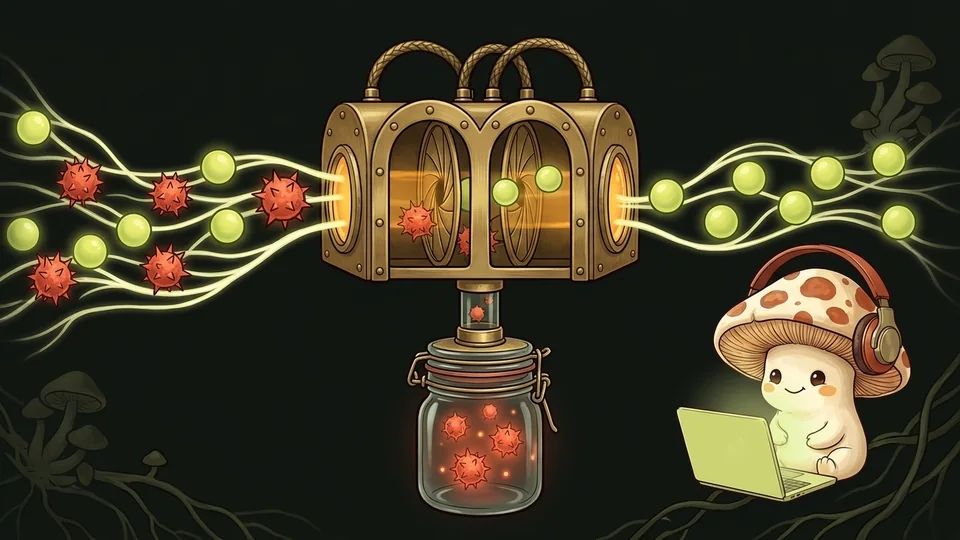
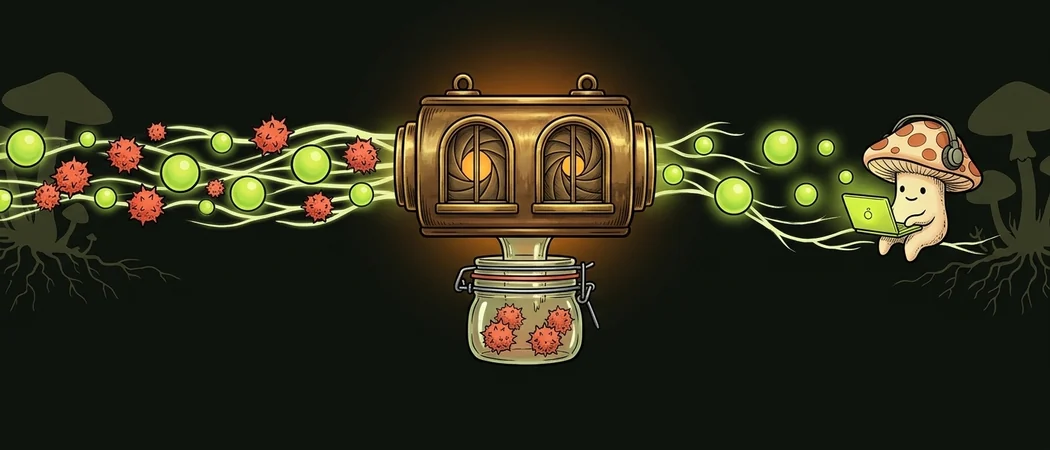
site(ux): fix hero responsive reflow, lock 21:9 full-bleed security cards & remove temp preview toggle

diff --git a/site/index.html b/site/index.html
@@ -18,7 +18,7 @@
   <meta name="twitter:title" content="Hyphae (hyp) — One wire under every agent" />
   <meta name="twitter:description" content="A standardized real-time event and messaging bus for coding agents. Unify CI/GitHub events, alerts, cron triggers, Passkey secrets, and cross-machine team messages over one encrypted wire with per-agent exposure control." />
   <meta name="twitter:image" content="https://hyphae.to/assets/social-card.jpg" />
-  <link rel="stylesheet" href="./styles.css?v=28" />
+  <link rel="stylesheet" href="./styles.css?v=30" />
 </head>
 <body>
   <header id="siteHeader" class="header-dark">
@@ -1050,23 +1050,19 @@ hyp deploy init tailscale</pre>
           </div>
         </div>
 
-        <div class="sec-grid">
+        <div class="sec-grid" id="secGrid">
           <!-- 1. End-to-End Encrypted Between Nodes -->
           <article class="sec-card tone-olive">
             <div class="sec-card-media">
-              <div class="sec-stage-frame">
-                <img src="./assets/sec-e2ee.webp?v=1" alt="Two brass Hyphae nodes connected by a glowing sealed conduit passing straight through a locked blind relay tower" decoding="async" />
-                <div class="sec-img-fade" aria-hidden="true"></div>
-                <svg class="sec-anim-overlay" viewBox="0 0 320 180" fill="none" aria-hidden="true">
-                  <circle class="sec-orb olive" cx="0" cy="0" r="3.4">
-                    <animateMotion dur="2.8s" repeatCount="indefinite" path="M 92 90 L 128 90" />
-                  </circle>
-                  <circle class="sec-orb olive" cx="0" cy="0" r="3.4">
-                    <animateMotion dur="2.8s" begin="1.35s" repeatCount="indefinite" path="M 192 90 L 230 90" />
-                  </circle>
-                  <rect class="sec-lock-glow" x="147" y="75" width="26" height="32" rx="6" />
-                </svg>
-              </div>
+              <img src="./assets/sec-e2ee.webp?v=2" alt="Two brass Hyphae nodes connected by a glowing sealed conduit passing straight through a locked blind relay chamber" decoding="async" />
+              <svg class="sec-anim-overlay" viewBox="0 0 350 150" fill="none" aria-hidden="true">
+                <circle class="sec-orb olive" cx="0" cy="0" r="3.2">
+                  <animateMotion dur="2.8s" repeatCount="indefinite" path="M 102 75 L 142 75" />
+                </circle>
+                <circle class="sec-orb olive" cx="0" cy="0" r="3.2">
+                  <animateMotion dur="2.8s" begin="1.35s" repeatCount="indefinite" path="M 208 75 L 248 75" />
+                </circle>
+              </svg>
             </div>
 
             <div class="sec-card-body">
@@ -1094,19 +1090,15 @@ hyp deploy init tailscale</pre>
           <!-- 2. Zero-Context Secrets -->
           <article class="sec-card tone-moss">
             <div class="sec-card-media">
-              <div class="sec-stage-frame">
-                <img src="./assets/sec-passkey.webp?v=1" alt="Smartphone Face ID key beam going straight into a brass Keychain vault and command runner while the mushroom coding agent works separately behind glass" decoding="async" />
-                <div class="sec-img-fade" aria-hidden="true"></div>
-                <svg class="sec-anim-overlay" viewBox="0 0 320 180" fill="none" aria-hidden="true">
-                  <circle class="sec-bio-pulse" cx="50" cy="90" r="11" />
-                  <circle class="sec-orb moss" cx="0" cy="0" r="3.3">
-                    <animateMotion dur="2.5s" repeatCount="indefinite" path="M 62 87 L 138 86" />
-                  </circle>
-                  <circle class="sec-orb moss" cx="0" cy="0" r="3.1">
-                    <animateMotion dur="2.5s" begin="1.15s" repeatCount="indefinite" path="M 151 128 C 151 148, 158 153, 178 153 L 246 153" />
-                  </circle>
-                </svg>
-              </div>
+              <img src="./assets/sec-passkey.webp?v=2" alt="Smartphone Face ID key beam going straight into a brass Keychain vault and command runner while the mushroom coding agent works separately behind glass" decoding="async" />
+              <svg class="sec-anim-overlay" viewBox="0 0 350 150" fill="none" aria-hidden="true">
+                <circle class="sec-orb moss" cx="0" cy="0" r="3">
+                  <animateMotion dur="2.5s" repeatCount="indefinite" path="M 74 75 L 146 75" />
+                </circle>
+                <circle class="sec-orb moss" cx="0" cy="0" r="2.8">
+                  <animateMotion dur="2.5s" begin="1.15s" repeatCount="indefinite" path="M 176 75 L 236 75" />
+                </circle>
+              </svg>
             </div>
 
             <div class="sec-card-body">
@@ -1134,17 +1126,13 @@ hyp deploy init tailscale</pre>
           <!-- 3. Passkey-Signed Messages -->
           <article class="sec-card tone-amber">
             <div class="sec-card-media">
-              <div class="sec-stage-frame">
-                <img src="./assets/sec-sign.webp?v=1" alt="Smartphone stamping a glowing golden cryptographic seal onto a message traveling safely across an untrusted channel to two verifying mushroom agents" decoding="async" />
-                <div class="sec-img-fade" aria-hidden="true"></div>
-                <svg class="sec-anim-overlay" viewBox="0 0 320 180" fill="none" aria-hidden="true">
-                  <circle class="sec-orb amber" cx="0" cy="0" r="3.4">
-                    <animateMotion dur="3.1s" repeatCount="indefinite" path="M 64 90 L 160 90 L 208 90" />
-                  </circle>
-                  <circle class="sec-seal-pulse" cx="160" cy="90" r="10" />
-                  <circle class="sec-seal-pulse delay" cx="256" cy="113" r="8" />
-                </svg>
-              </div>
+              <img src="./assets/sec-sign.webp?v=2" alt="Smartphone stamping a glowing golden cryptographic seal onto a message traveling safely across an untrusted channel to two verifying mushroom agents" decoding="async" />
+              <svg class="sec-anim-overlay" viewBox="0 0 350 150" fill="none" aria-hidden="true">
+                <circle class="sec-orb amber" cx="0" cy="0" r="3.1">
+                  <animateMotion dur="3.1s" repeatCount="indefinite" path="M 80 75 L 175 75 L 238 75" />
+                </circle>
+                <circle class="sec-seal-pulse" cx="175" cy="75" r="9" />
+              </svg>
             </div>
 
             <div class="sec-card-body">
@@ -1172,24 +1160,15 @@ hyp deploy init tailscale</pre>
           <!-- 4. Two-Stage Inbound Gate -->
           <article class="sec-card tone-coral">
             <div class="sec-card-media">
-              <div class="sec-stage-frame">
-                <img src="./assets/sec-gate.webp?v=1" alt="Twin-chamber brass optical gatehouse diverting thorny red spores into a sealed glass quarantine jar while clean glowing green orbs flow to the mushroom agent" decoding="async" />
-                <div class="sec-img-fade" aria-hidden="true"></div>
-                <svg class="sec-anim-overlay" viewBox="0 0 320 180" fill="none" aria-hidden="true">
-                  <circle class="sec-orb olive" cx="0" cy="0" r="3.3">
-                    <animateMotion dur="3.2s" repeatCount="indefinite" path="M 8 56 C 48 60, 82 64, 114 65 L 206 65 C 242 64, 274 56, 304 54" />
-                  </circle>
-                  <circle class="sec-orb olive" cx="0" cy="0" r="2.9">
-                    <animateMotion dur="3.2s" begin="1.6s" repeatCount="indefinite" path="M 10 80 C 52 78, 84 68, 114 66 L 206 66 C 240 68, 272 72, 304 72" />
-                  </circle>
-                  <circle class="sec-orb coral" cx="0" cy="0" r="3.6">
-                    <animateMotion dur="2.9s" repeatCount="indefinite" path="M 14 70 C 54 68, 86 65, 114 65 L 146 65 C 156 66, 160 76, 160 96 L 160 144" />
-                  </circle>
-                  <circle class="sec-orb coral" cx="0" cy="0" r="3.1">
-                    <animateMotion dur="2.9s" begin="1.45s" repeatCount="indefinite" path="M 16 86 C 58 84, 88 70, 114 66 L 144 66 C 155 68, 160 78, 160 98 L 160 142" />
-                  </circle>
-                </svg>
-              </div>
+              <img src="./assets/sec-gate.webp?v=2" alt="Twin-chamber brass optical gatehouse diverting thorny red spores into a sealed glass quarantine jar while clean glowing green orbs flow to the mushroom agent" decoding="async" />
+              <svg class="sec-anim-overlay" viewBox="0 0 350 150" fill="none" aria-hidden="true">
+                <circle class="sec-orb olive" cx="0" cy="0" r="3">
+                  <animateMotion dur="3.2s" repeatCount="indefinite" path="M 10 56 C 58 56, 94 54, 134 54 L 218 54 C 254 54, 286 56, 326 56" />
+                </circle>
+                <circle class="sec-orb coral" cx="0" cy="0" r="3.2">
+                  <animateMotion dur="2.9s" repeatCount="indefinite" path="M 14 66 C 62 66, 98 58, 136 58 L 164 58 C 172 62, 175 78, 175 118" />
+                </circle>
+              </svg>
             </div>
 
             <div class="sec-card-body">
@@ -1760,6 +1739,6 @@ curl -fsSL https://hyphae.to/install.sh | sh</pre>
     <p class="cmp-pop-body" id="cmpPopBody"></p>
   </div>
 
-  <script type="module" src="./app.js?v=25"></script>
+  <script type="module" src="./app.js?v=27"></script>
 </body>
 </html>

diff --git a/site/styles.css b/site/styles.css
@@ -4871,7 +4871,8 @@ footer { border-top: 1px solid var(--border); padding: 34px 0 48px; font-size: 0
 }
 
 .hero-stack {
-  padding: calc(var(--header-h, 72px) + clamp(36px, 5.4vh, 66px)) 0 clamp(32px, 4.5vh, 52px);
+  padding-top: calc(var(--header-h, 72px) + clamp(36px, 5.4vh, 66px));
+  padding-bottom: clamp(32px, 4.5vh, 52px);
   display: flex;
   flex-direction: column;
   gap: clamp(26px, 4.2vh, 44px);
@@ -4879,8 +4880,15 @@ footer { border-top: 1px solid var(--border); padding: 34px 0 48px; font-size: 0
 
 .hero-cta-strip.hero-top {
   padding: 0;
-  gap: clamp(26px, 3.8vw, 58px);
+  gap: clamp(24px, 3.6vw, 56px);
   align-items: center;
+}
+
+@media (max-width: 1080px) {
+  .hero-cta-strip.hero-top {
+    grid-template-columns: minmax(0, 1fr);
+    gap: 20px;
+  }
 }
 
 .hero-cta-copy h1 {
@@ -4981,8 +4989,8 @@ footer { border-top: 1px solid var(--border); padding: 34px 0 48px; font-size: 0
   position: relative;
   z-index: 2;
   display: grid;
-  grid-template-columns: minmax(0, 1.06fr) minmax(220px, 0.84fr) minmax(0, 1.06fr);
-  column-gap: clamp(54px, 6.2vw, 84px);
+  grid-template-columns: minmax(0, 1.14fr) minmax(194px, 0.7fr) minmax(0, 1.14fr);
+  column-gap: clamp(22px, 3.4vw, 68px);
   align-items: stretch;
 }
 
@@ -5413,13 +5421,13 @@ footer { border-top: 1px solid var(--border); padding: 34px 0 48px; font-size: 0
   display: flex;
   align-items: center;
   justify-content: space-between;
-  gap: 8px;
+  gap: 6px;
 }
 
 .sb-agent-id {
   display: inline-flex;
   align-items: center;
-  gap: 8px;
+  gap: 7px;
   min-width: 0;
 }
 
@@ -5446,15 +5454,15 @@ footer { border-top: 1px solid var(--border); padding: 34px 0 48px; font-size: 0
   align-items: baseline;
   gap: 5px;
   min-width: 0;
-  white-space: nowrap;
   overflow: hidden;
-  text-overflow: ellipsis;
 }
 
 .sb-agent-id strong {
   font-size: 0.78rem;
   font-weight: 600;
   color: var(--cream);
+  white-space: nowrap;
+  flex-shrink: 0;
 }
 
 .sb-agent-id em {
@@ -5462,13 +5470,17 @@ footer { border-top: 1px solid var(--border); padding: 34px 0 48px; font-size: 0
   font-family: var(--mono);
   font-size: 0.62rem;
   color: #a4a094;
+  white-space: nowrap;
+  overflow: hidden;
+  text-overflow: ellipsis;
+  min-width: 0;
 }
 
 .sb-state {
   font-family: var(--mono);
   font-size: 0.59rem;
   font-weight: 600;
-  padding: 2px 8px;
+  padding: 2px 7px;
   border-radius: 999px;
   white-space: nowrap;
   flex-shrink: 0;
@@ -6159,7 +6171,7 @@ footer { border-top: 1px solid var(--border); padding: 34px 0 48px; font-size: 0
   color: var(--olive);
 }
 
-/* 2x2 Unified Security Cards: Dark Obsidian Artwork Top + Warm Cream Botanical Body + Bottom Pills */
+/* 2x2 Unified Security Cards: Full-Bleed 21:9 Artwork Top + Warm Cream Botanical Body + Bottom Pills */
 .sec-grid {
   display: grid;
   grid-template-columns: repeat(2, minmax(0, 1fr));
@@ -6189,51 +6201,18 @@ footer { border-top: 1px solid var(--border); padding: 34px 0 48px; font-size: 0
     0 3px 8px rgba(22, 23, 20, 0.06);
 }
 
-/* Clean dark obsidian artwork top (no badge clutter, no pills over image) */
+/* Zero-padding full-bleed 21:9 artwork top — clipped cleanly by card border-radius */
 .sec-card-media {
   position: relative;
-  background: linear-gradient(180deg, #121712 0%, #121712 72%, #0e120e 100%);
-  padding: 12px 16px;
-  border-bottom: 1px solid rgba(22, 23, 20, 0.16);
+  width: 100%;
+  aspect-ratio: 21 / 9;
+  padding: 0;
+  background: #121510;
+  border-bottom: 1px solid rgba(22, 23, 20, 0.14);
   overflow: hidden;
 }
 
-.sec-card-media::before {
-  content: "";
-  position: absolute;
-  inset: 0;
-  pointer-events: none;
-  z-index: 0;
-}
-
-.sec-card.tone-olive .sec-card-media::before {
-  background: radial-gradient(ellipse 68% 48% at 50% 0%, rgba(183, 217, 86, 0.09) 0%, transparent 68%);
-}
-
-.sec-card.tone-moss .sec-card-media::before {
-  background: radial-gradient(ellipse 68% 48% at 50% 0%, rgba(127, 201, 123, 0.09) 0%, transparent 68%);
-}
-
-.sec-card.tone-amber .sec-card-media::before {
-  background: radial-gradient(ellipse 68% 48% at 50% 0%, rgba(232, 163, 49, 0.09) 0%, transparent 68%);
-}
-
-.sec-card.tone-coral .sec-card-media::before {
-  background: radial-gradient(ellipse 68% 48% at 50% 0%, rgba(221, 81, 53, 0.09) 0%, transparent 68%);
-}
-
-/* Seamless Illuminated Artwork Stage — melts into #121712 with zero seam */
-.sec-stage-frame {
-  position: relative;
-  z-index: 2;
-  width: min(100%, 372px);
-  aspect-ratio: 16 / 9;
-  margin: 0 auto;
-  overflow: hidden;
-  background: #121712;
-}
-
-.sec-stage-frame img {
+.sec-card-media img {
   position: relative;
   z-index: 0;
   width: 100%;
@@ -6243,18 +6222,8 @@ footer { border-top: 1px solid var(--border); padding: 34px 0 48px; font-size: 0
   transition: transform 0.5s cubic-bezier(0.22, 1, 0.36, 1);
 }
 
-.sec-card:hover .sec-stage-frame img {
+.sec-card:hover .sec-card-media img {
   transform: scale(1.024);
-}
-
-.sec-img-fade {
-  position: absolute;
-  inset: 0;
-  z-index: 1;
-  pointer-events: none;
-  background:
-    linear-gradient(90deg, #121712 0%, rgba(18, 23, 18, 0) 7%, rgba(18, 23, 18, 0) 93%, #121712 100%),
-    linear-gradient(180deg, #121712 0%, rgba(18, 23, 18, 0) 8%, rgba(18, 23, 18, 0) 88%, #121712 100%);
 }
 
 .sec-anim-overlay {
@@ -6581,7 +6550,14 @@ footer { border-top: 1px solid var(--border); padding: 34px 0 48px; font-size: 0
   .sec-stem-pulse { opacity: 0 !important; }
 }
 
-@media (max-width: 1040px) {
+@media (max-width: 1120px) and (min-width: 1081px) {
+  .sb-stage-canvas { padding: 14px 14px; }
+  .sb-grid { column-gap: 20px; }
+  .sb-agent { padding: 10px 10px; }
+  .sb-state { font-size: 0.55rem; padding: 2px 6px; }
+}
+
+@media (max-width: 1080px) {
   .uc-showcase { grid-template-columns: minmax(0, 1fr); gap: 16px; }
   .uc-stage { min-height: 0; }
   .sb-grid { grid-template-columns: minmax(0, 1fr); gap: 14px; }
@@ -6597,7 +6573,7 @@ footer { border-top: 1px solid var(--border); padding: 34px 0 48px; font-size: 0
 
 @media (max-width: 640px) {
   .story-band.hero-cinema { min-height: auto; }
-  .hero-stack { padding: 82px 0 38px; gap: 22px; }
+  .hero-stack { padding-top: 82px; padding-bottom: 38px; gap: 22px; }
   .signal-bus-stage { padding: 12px; border-radius: 18px; }
   .sb-stage-canvas { padding: 12px; }
   .sb-source { padding: 8px 9px 8px 13px; }
@@ -6610,7 +6586,6 @@ footer { border-top: 1px solid var(--border); padding: 34px 0 48px; font-size: 0
   .uc-chips { flex-wrap: wrap; }
   .uc-flow { grid-template-columns: minmax(0, 1fr); gap: 10px; }
   .uc-flow-wire { width: 2px; height: 18px; margin: 0 auto; }
-  .sec-card-media { padding: 10px 12px; }
   .sec-card-body { padding: 18px 18px 18px; }
   .walkthrough-toggle { padding: 14px 16px; }
 }
